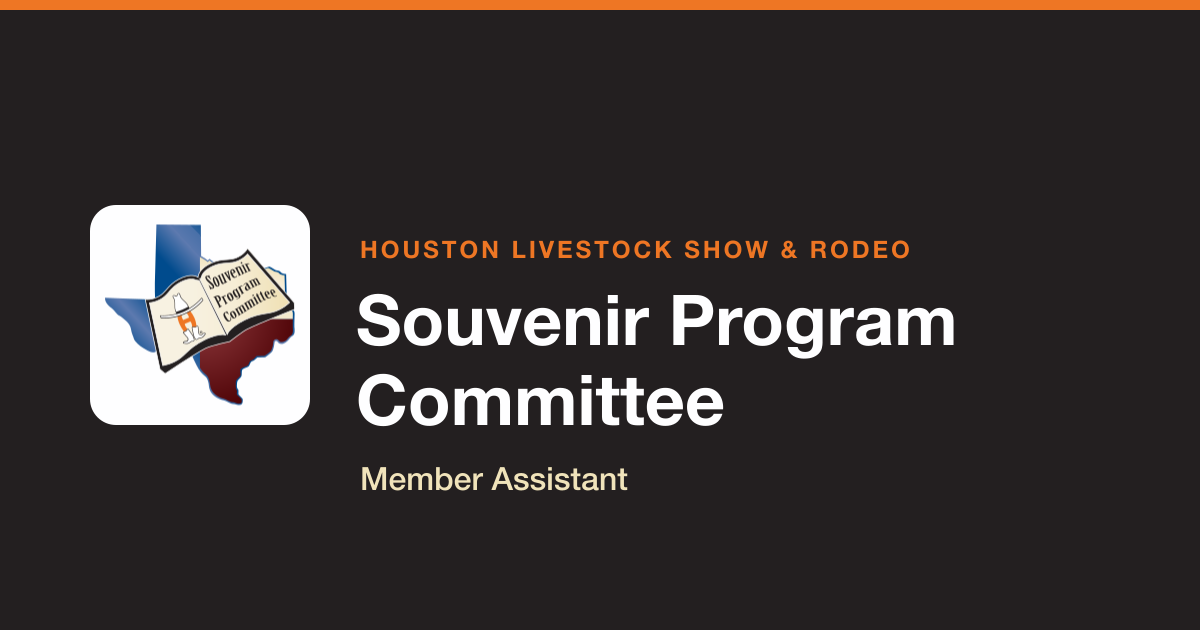
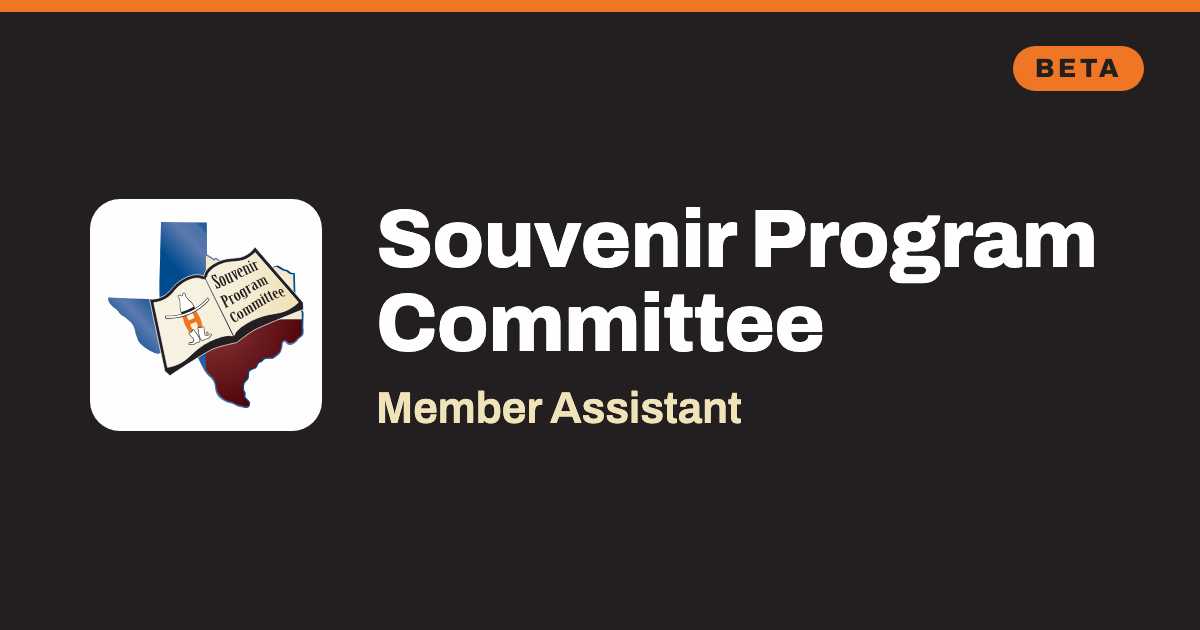
OG card refresh + Submit-a-bug form
OG card: drop the "Houston Livestock Show & Rodeo" line, vertically center the
title + Member Assistant, bump both sizes, add a Beta pill. Source now kept at
og/ogcard.html (render to public/og.png with headless Chrome) so it's editable.

Submit a bug: small link under Contact Admin opens a bug-report modal that posts
to /contact with kind:'bug' (inbox only, no chairman CC).

diff --git a/og/ogcard.html b/og/ogcard.html
@@ -1,0 +1,71 @@
+<!DOCTYPE html>
+<!--
+  Source for public/og.png (the 1200x630 social-share card). Edit here, then
+  re-render to public/og.png with headless Chrome:
+
+    "/Applications/Google Chrome.app/Contents/MacOS/Google Chrome" \
+      --headless=new --disable-gpu --hide-scrollbars --force-device-scale-factor=1 \
+      --force-color-profile=srgb --virtual-time-budget=5000 --window-size=1200,630 \
+      --screenshot="../public/og.png" "file://$PWD/ogcard.html"
+
+  (run from this og/ directory; needs an internet connection for the Archivo font).
+-->
+<html>
+<head>
+<meta charset="utf-8">
+<link rel="preconnect" href="https://fonts.googleapis.com">
+<link rel="preconnect" href="https://fonts.gstatic.com" crossorigin>
+<link href="https://fonts.googleapis.com/css2?family=Archivo:wght@400;500;600;700;800&display=swap" rel="stylesheet">
+<style>
+  * { margin: 0; padding: 0; box-sizing: border-box; }
+  html, body { width: 1200px; height: 630px; }
+  body {
+    background: #231f20;
+    font-family: "Archivo", system-ui, sans-serif;
+    position: relative;
+    overflow: hidden;
+  }
+  .topbar { position: absolute; top: 0; left: 0; width: 100%; height: 12px; background: #ee7624; }
+  .beta {
+    position: absolute; top: 46px; right: 56px;
+    background: #ee7624; color: #231f20;
+    font-weight: 800; font-size: 26px; letter-spacing: 0.14em;
+    padding: 8px 22px 9px; border-radius: 999px;
+    text-transform: uppercase;
+  }
+  .row {
+    display: flex; align-items: center; gap: 54px;
+    height: 100%; padding: 0 70px 0 90px;
+  }
+  .logo-card {
+    flex-shrink: 0;
+    width: 232px; height: 232px;
+    background: #fefeff; border-radius: 30px;
+    display: grid; place-items: center;
+  }
+  .logo-card img { width: 196px; height: 196px; object-fit: contain; }
+  .text { display: flex; flex-direction: column; justify-content: center; }
+  .title {
+    color: #fefeff; font-weight: 800; font-size: 82px; line-height: 1.02;
+    letter-spacing: -0.01em;
+  }
+  .sub {
+    color: #f0e3ba; font-weight: 600; font-size: 44px;
+    margin-top: 18px;
+  }
+</style>
+</head>
+<body>
+  <div class="topbar"></div>
+  <div class="beta">Beta</div>
+  <div class="row">
+    <div class="logo-card">
+      <img src="../public/logo.svg" alt="">
+    </div>
+    <div class="text">
+      <div class="title">Souvenir Program<br>Committee</div>
+      <div class="sub">Member Assistant</div>
+    </div>
+  </div>
+</body>
+</html>

diff --git a/public/app.js b/public/app.js
@@ -152,6 +152,64 @@
   document.getElementById('captain-overlay').addEventListener('click', closeModal);
   document.getElementById('captain-done').addEventListener('click', closeModal);
 
+  // ---- Submit a bug ----
+  // Sends a bug report (and optionally the chat transcript) to the inbox via the
+  // same /contact function with kind:'bug' (which skips the chairman CC).
+  const bugModal = document.getElementById('bug-modal');
+  const bugForm = document.getElementById('bug-form');
+  const bugSent = document.getElementById('bug-sent');
+  const bugMsgEl = document.getElementById('bug-message');
+  const bugPreviewEl = document.getElementById('bug-preview');
+
+  function openBug() {
+    bugForm.hidden = false;
+    bugSent.hidden = true;
+    bugForm.reset();
+    bugModal.hidden = false;
+    bugMsgEl.focus();
+  }
+  function closeBug() { bugModal.hidden = true; }
+
+  bugForm.addEventListener('submit', async (e) => {
+    e.preventDefault();
+    const message = bugMsgEl.value.trim();
+    const email = document.getElementById('bug-email').value.trim();
+    const includeTx = document.getElementById('bug-transcript').checked;
+    const botcheck = document.getElementById('bug-botcheck').value;
+    if (!message) { bugMsgEl.focus(); return; }
+    const tx = includeTx ? transcript() : '';
+
+    const banner = document.getElementById('bug-banner');
+    const btn = bugForm.querySelector('button[type="submit"]');
+    if (btn) { btn.disabled = true; btn.textContent = 'Sending…'; }
+
+    let preview = email ? `Reply to: ${email}\n\n${message}` : message;
+    if (tx) preview += `\n\n--- Assistant chat transcript ---\n${tx}`;
+    bugPreviewEl.textContent = preview;
+
+    let ok = false;
+    try {
+      const res = await fetch('/.netlify/functions/contact', {
+        method: 'POST',
+        headers: { 'Content-Type': 'application/json' },
+        body: JSON.stringify({ kind: 'bug', email, message, transcript: tx, botcheck }),
+      });
+      ok = res.ok && (await res.json()).success === true;
+    } catch (err) {}
+
+    banner.textContent = ok
+      ? 'Thanks — your bug report was sent.'
+      : 'Sending failed. Here is what would have been sent; please try again.';
+
+    bugForm.hidden = true;
+    bugSent.hidden = false;
+  });
+
+  document.getElementById('bug-open').addEventListener('click', openBug);
+  document.getElementById('bug-close').addEventListener('click', closeBug);
+  document.getElementById('bug-overlay').addEventListener('click', closeBug);
+  document.getElementById('bug-done').addEventListener('click', closeBug);
+
   // ---- Theme: default to the system setting, allow an in-app override ----
   // The override is saved in localStorage and pre-applied in <head> to avoid a
   // flash. The button shows the theme you'd switch TO.

diff --git a/public/index.html b/public/index.html
@@ -44,7 +44,10 @@
         <p class="app-sub"><span class="dot"></span>Member Assistant</p>
       </div>
       <button class="theme-toggle" id="theme-toggle" type="button" aria-label="Toggle dark mode"></button>
-      <button class="captain-btn" id="captain-open" type="button">Contact Admin</button>
+      <div class="header-actions">
+        <button class="captain-btn" id="captain-open" type="button">Contact Admin</button>
+        <button class="bug-link" id="bug-open" type="button">Submit a bug</button>
+      </div>
     </header>
 
     <div class="chat-log" id="chat-log">
@@ -102,6 +105,40 @@
         <p class="cap-banner" id="cap-banner">Sent. A committee administrator will follow up.</p>
         <pre class="cap-preview" id="cap-preview"></pre>
         <button class="btn-primary" id="captain-done" type="button">Done</button>
+      </div>
+    </div>
+  </div>
+
+  <!-- Submit a bug -->
+  <div class="modal" id="bug-modal" hidden>
+    <div class="modal-overlay" id="bug-overlay"></div>
+    <div class="sheet">
+      <div class="sheet-head">
+        <p class="sheet-title">Submit a bug</p>
+        <button class="sheet-close" id="bug-close" type="button" aria-label="Close">&times;</button>
+      </div>
+
+      <form class="cap-form" id="bug-form">
+        <p class="hp"><label>Leave blank <input name="botcheck" id="bug-botcheck" tabindex="-1" autocomplete="off" /></label></p>
+        <label class="field">
+          <span>What went wrong?</span>
+          <textarea id="bug-message" rows="4" placeholder="Describe the problem — what you did and what happened." required></textarea>
+        </label>
+        <label class="field">
+          <span>Your email (optional, so we can follow up)</span>
+          <input type="email" id="bug-email" placeholder="[email redacted]" />
+        </label>
+        <label class="check">
+          <input type="checkbox" id="bug-transcript" checked />
+          <span>Include this chat transcript</span>
+        </label>
+        <button class="btn-primary" type="submit">Send bug report</button>
+      </form>
+
+      <div class="cap-sent" id="bug-sent" hidden>
+        <p class="cap-banner" id="bug-banner">Thanks — your bug report was sent.</p>
+        <pre class="cap-preview" id="bug-preview"></pre>
+        <button class="btn-primary" id="bug-done" type="button">Done</button>
       </div>
     </div>
   </div>

diff --git a/api/contact.js b/api/contact.js
@@ -1,22 +1,26 @@
-// Serverless function for the "Contact Admin" form.
+// Serverless function for the "Contact Admin" and "Submit a bug" forms.
 // Vercel builds any file in a root /api folder into a serverless function; the
 // front end posts to /.netlify/functions/contact, which vercel.json rewrites to
 // /api/contact, so the same call works on either host.
 //
 // It sends each message through Joe's own Google Workspace over SMTP
 // (authenticated as GMAIL_USER with a Google App Password) — the same pattern as
-// the gruvyo.com contact form. The mail is From/To [email redacted] and Reply-To
-// the member (when they give an email), so a reply goes straight back to them.
+// the gruvyo.com contact form. Reply-To is the sender (when given).
+//
+// Two kinds:
+//   kind: 'admin' (default) — a member message; CC's the chairman (CONTACT_CC).
+//   kind: 'bug'             — a bug report; goes to the inbox only, no CC.
 //
 // Required Vercel env vars (Production):
 //   GMAIL_USER          the Workspace account that logs in, e.g. [email redacted]
 //   GMAIL_APP_PASSWORD  a 16-char Google App Password for that account
+//   CONTACT_CC          optional CC for admin messages (e.g. the chairman)
 const nodemailer = require('nodemailer');
 
 const TO = '[email redacted]';
 const FROM = 'SPC Member Assistant <[email redacted]>';
 // Optional CC (e.g. the committee chairman), kept in an env var so a personal
-// address never lands in this public repo. Set CONTACT_CC in the host env.
+// address never lands in this public repo. Applied to admin messages only.
 const CC = (process.env.CONTACT_CC && process.env.CONTACT_CC.trim()) || undefined;
 
 module.exports = async (req, res) => {
@@ -24,14 +28,18 @@ module.exports = async (req, res) => {
 
   const body = typeof req.body === 'string' ? safeParse(req.body) : (req.body || {});
   const {
-    name = '', email = '', message = '', transcript = '', botcheck,
+    kind = 'admin', name = '', email = '', message = '', transcript = '', botcheck,
   } = body;
+  const isBug = kind === 'bug';
 
   // Honeypot: a real person never fills the hidden botcheck field.
   if (botcheck) return res.status(200).json({ success: true });
 
-  if (!name.trim() || !message.trim()) {
-    return res.status(400).json({ error: 'Please add your name and a short message.' });
+  if (!message.trim()) {
+    return res.status(400).json({ error: 'Please add a short message.' });
+  }
+  if (!isBug && !name.trim()) {
+    return res.status(400).json({ error: 'Please add your name.' });
   }
   if (email.trim() && !/^[^\s@]+@[^\s@]+\.[^\s@]+$/.test(email.trim())) {
     return res.status(400).json({ error: "That email address doesn't look right." });
@@ -54,10 +62,11 @@ module.exports = async (req, res) => {
     auth: { user, pass },
   });
 
+  const who = name.trim() ? `${name.trim()}${email.trim() ? ` <${email.trim()}>` : ''}` : (email.trim() || 'anonymous');
   const lines = [
-    `From:    ${name.trim()}${email.trim() ? ` <${email.trim()}>` : ''}`,
+    `From:    ${who}`,
     '',
-    'Message:',
+    isBug ? 'Bug report:' : 'Message:',
     message.trim(),
   ];
   if (transcript && transcript.trim() && !/^\(No conversation/i.test(transcript.trim())) {
@@ -65,13 +74,17 @@ module.exports = async (req, res) => {
   }
   const text = lines.join('\n');
 
+  const subject = isBug
+    ? `SPC Assistant — BUG REPORT${name.trim() ? ` from ${name.trim()}` : ''}`
+    : `SPC Assistant — message from ${name.trim()}`;
+
   try {
     await transporter.sendMail({
       from: FROM,
       to: TO,
-      cc: CC,
-      replyTo: email.trim() ? `${name.trim()} <${email.trim()}>` : undefined,
-      subject: `SPC Assistant — message from ${name.trim()}`,
+      cc: isBug ? undefined : CC, // chairman is not CC'd on bug reports
+      replyTo: email.trim() ? `${name.trim() || 'Member'} <${email.trim()}>` : undefined,
+      subject,
       text,
     });
     return res.status(200).json({ success: true });

diff --git a/public/styles.css b/public/styles.css
@@ -271,6 +271,28 @@ body {
 .theme-toggle:hover { background: var(--header-hover); border-color: var(--white); }
 .theme-toggle svg { width: 18px; height: 18px; }
 
+.header-actions {
+  display: flex;
+  flex-direction: column;
+  align-items: center;
+  gap: 0.25rem;
+  flex-shrink: 0;
+}
+
+.bug-link {
+  background: none;
+  border: none;
+  padding: 0;
+  color: rgba(255, 255, 255, 0.65);
+  font-family: var(--sans);
+  font-size: 0.72rem;
+  text-decoration: underline;
+  text-underline-offset: 2px;
+  cursor: pointer;
+  transition: color 0.15s ease;
+}
+.bug-link:hover { color: var(--white); }
+
 .captain-btn {
   flex-shrink: 0;
   background: transparent;